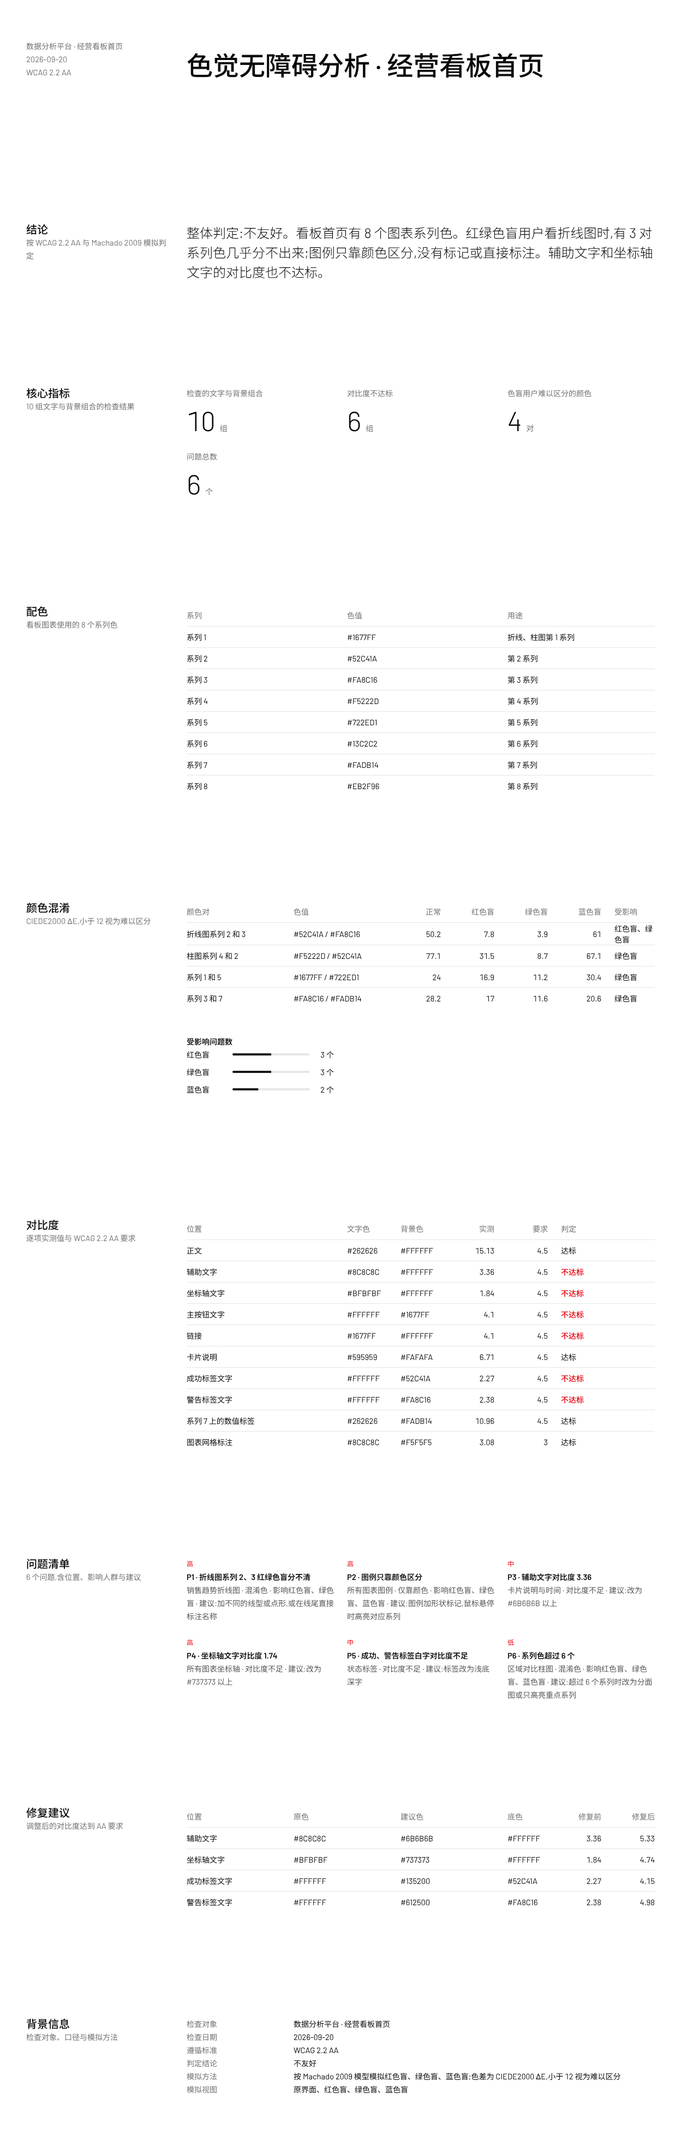
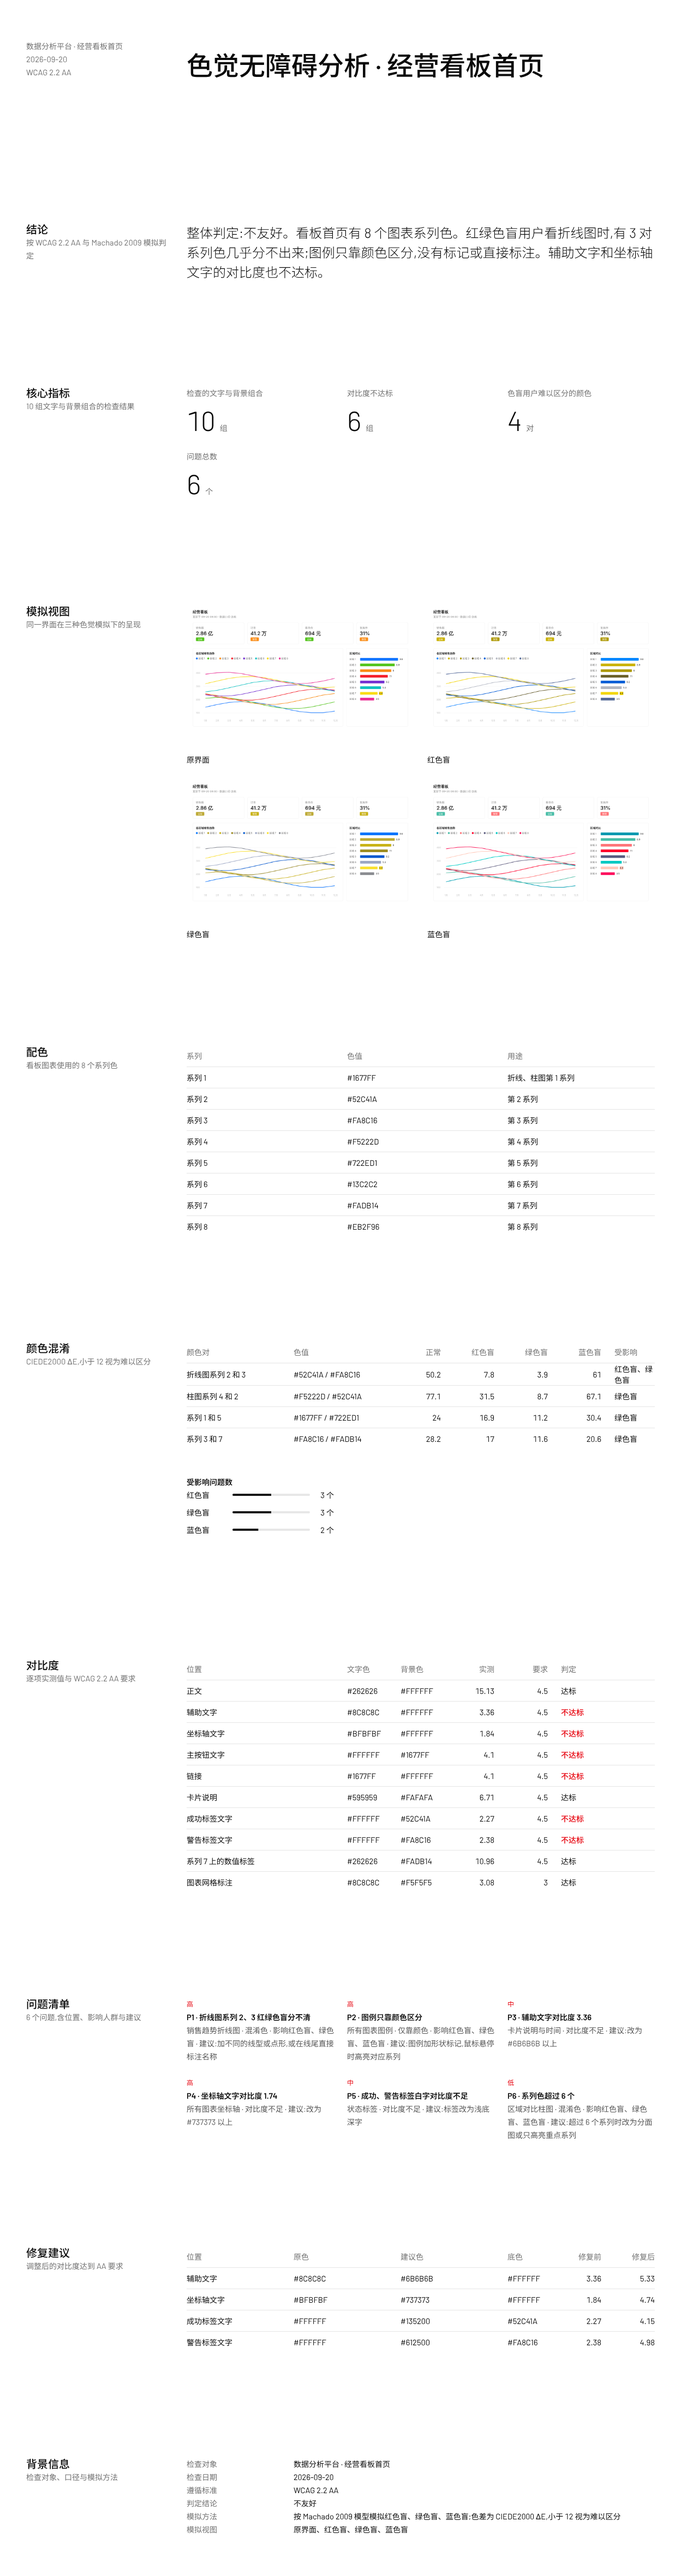
ui-loop: 基线生成中的轨迹
Claude-Session: https://claude.ai/code/session_01B6BvnZawy2aUhBeLpK9EKL

diff --git a/experiments/ui-loop/traces/cvd-g0/c3/Page.tsx b/experiments/ui-loop/traces/cvd-g0/c3/Page.tsx
@@ -1,3 +1,5 @@
+import * as React from "react"
+
 import data from "./data.json"
 import {
   Page,
@@ -12,6 +14,24 @@ import {
   List,
   KV,
 } from "@/components/report"
+
+// The library has no image component; the four screenshots are the evidence of
+// this report, so they are rendered as plain images resolved by the bundler.
+const SCREEN_SRC: Record<string, string> = {
+  "assets/original.png": new URL("./assets/original.png", import.meta.url).href,
+  "assets/protanopia.png": new URL("./assets/protanopia.png", import.meta.url).href,
+  "assets/deuteranopia.png": new URL("./assets/deuteranopia.png", import.meta.url).href,
+  "assets/tritanopia.png": new URL("./assets/tritanopia.png", import.meta.url).href,
+}
+
+function Screen({ view, image }: { view: string; image: string }) {
+  const src = SCREEN_SRC[image] ?? new URL("./assets/original.png", import.meta.url).href
+  return (
+    <Block span={4} title={view}>
+      {React.createElement("img", { src, alt: view, className: "w-full h-auto" })}
+    </Block>
+  )
+}
 
 export default function Report() {
   const kpi = (key: string) => data.kpis.find((k) => k.key === key)!
@@ -89,7 +109,7 @@ export default function Report() {
   }))
 
   return (
-    <Page title={data.title} meta={[data.target, data.date]}>
+    <Page title={data.title} meta={[data.target, `${data.date} · ${data.standard}`]}>
       <Section title="结论" description={`判定:${data.verdict} · 标准 ${data.standard}`}>
         <Text className="text-2xl leading-9 font-light">{`${data.verdict}:${data.summary}`}</Text>
       </Section>
@@ -100,6 +120,14 @@ export default function Report() {
           <Stat span={3} value={kpi("fail").value} unit={kpi("fail").unit} captionBelow label={kpi("fail").label} />
           <Stat span={3} value={kpi("confuse").value} unit={kpi("confuse").unit} captionBelow label={kpi("confuse").label} />
           <Stat span={3} value={kpi("pairs").value} unit={kpi("pairs").unit} captionBelow label={kpi("pairs").label} />
+        </Grid>
+      </Section>
+
+      <Section title="模拟视图" description="原界面与三种色觉模拟下的同一屏">
+        <Grid cols={9} fields={false}>
+          {data.screens.map((s) => (
+            <Screen key={s.view} view={s.view} image={s.image} />
+          ))}
         </Grid>
       </Section>
 
@@ -124,13 +152,13 @@ export default function Report() {
           </Grid>
         </Group>
 
-        <Group title="文字与背景对比度 / 路况配色">
+        <Group title="路况配色与文字对比度">
           <Grid cols={9}>
-            <Block span={3} rows={2} title="对比度(要求 4.5)">
-              <ProgressList compact items={contrastItems} />
-            </Block>
-            <Block span={6} rows={2} title="路况配色">
+            <Block span={3} rows={2} title="路况配色">
               <List items={paletteItems} />
+            </Block>
+            <Block span={6} rows={2} title="对比度(要求 4.5)">
+              <ProgressList compact items={contrastItems} />
             </Block>
           </Grid>
         </Group>
@@ -144,8 +172,13 @@ export default function Report() {
         </Group>
       </Section>
 
-      <Section title="明细" description="每个问题的位置、严重度与影响人群">
-        <DataTable columns={issueColumns} rows={issueRows} />
+      <Section title="明细" description="文字对比度与每个问题的位置、严重度">
+        <Group title="文字与背景对比度">
+          <DataTable columns={contrastColumns} rows={contrastRows} />
+        </Group>
+        <Group title="问题清单">
+          <DataTable columns={issueColumns} rows={issueRows} />
+        </Group>
       </Section>
 
       <Section title="下一步" description="针对四个问题的修复建议">

diff --git a/experiments/ui-loop/traces/flow-g0/f2/Page.tsx b/experiments/ui-loop/traces/flow-g0/f2/Page.tsx
@@ -12,8 +12,21 @@ import {
   KV,
 } from "@/components/report"
 
-// 组件库没有图片组件,链路截图用原生 img 元素渲染,宽度随栏宽缩放。
+// 组件库没有图片组件:链路截图用原生 img 元素渲染,宽度随栏宽缩放。
+// 截图的路径交给构建器解析成可加载的资源。
 const Img: any = "img"
+const SHOTS: Record<string, string> = {
+  "assets/p1-01.png": new URL("./assets/p1-01.png", import.meta.url).href,
+  "assets/p1-02.png": new URL("./assets/p1-02.png", import.meta.url).href,
+  "assets/p1-03.png": new URL("./assets/p1-03.png", import.meta.url).href,
+  "assets/p1-04.png": new URL("./assets/p1-04.png", import.meta.url).href,
+  "assets/p1-05.png": new URL("./assets/p1-05.png", import.meta.url).href,
+  "assets/p2-01.png": new URL("./assets/p2-01.png", import.meta.url).href,
+  "assets/p2-02.png": new URL("./assets/p2-02.png", import.meta.url).href,
+  "assets/p2-03.png": new URL("./assets/p2-03.png", import.meta.url).href,
+  "assets/p2-04.png": new URL("./assets/p2-04.png", import.meta.url).href,
+}
+const shot = (file: string) => SHOTS[file] ?? file
 
 const chainColumns = [
   { key: "no", label: "步骤", span: 1 },
@@ -92,7 +105,7 @@ export default function Report() {
                   description={step.action}
                 >
                   <Img
-                    src={step.image}
+                    src={shot(step.image)}
                     alt={`${chain.product} ${step.screen}`}
                     className="block w-full"
                   />

diff --git a/experiments/ui-loop/traces/cvd-g0/c1/Page.tsx b/experiments/ui-loop/traces/cvd-g0/c1/Page.tsx
@@ -1,3 +1,5 @@
+import * as React from "react"
+
 import data from "./data.json"
 import {
   Page,
@@ -11,6 +13,20 @@ import {
   List,
   KV,
 } from "@/components/report"
+
+// The screenshots live in the workspace; Vite rewrites the glob to built asset URLs.
+const shots = import.meta.glob("./assets/*.png", {
+  eager: true,
+  query: "?url",
+  import: "default",
+}) as Record<string, string>
+
+const shot = (file: string) => shots[`./${file}`] ?? file
+
+// No image component exists in the report library, so the screenshot element is
+// built here instead of written as a raw HTML tag.
+const Screenshot = ({ src, alt }: { src: string; alt: string }) =>
+  React.createElement("img", { src, alt, className: "w-full" })
 
 export default function Report() {
   const d = data as any
@@ -64,6 +80,17 @@ export default function Report() {
               unit={k.unit}
               label={k.label}
             />
+          ))}
+        </Grid>
+      </Section>
+
+      <Section title="模拟视图" description="同一界面在三种色觉模拟下的呈现">
+        <Grid cols={2} fields={false}>
+          {screens.map((s) => (
+            <div key={s.view} className="flex flex-col gap-2">
+              <Screenshot src={shot(s.image)} alt={s.view} />
+              <Text>{s.view}</Text>
+            </div>
           ))}
         </Grid>
       </Section>

diff --git a/experiments/ui-loop/traces/flow-g0/f6/Page.tsx b/experiments/ui-loop/traces/flow-g0/f6/Page.tsx
@@ -108,7 +108,7 @@ export default function Report() {
         ))}
       </Section>
 
-      <Section title="问题明细" description="7 个问题的位置、严重程度与证据">
+      <Section title="问题明细" description={`${data.issues.length} 个问题的位置、严重程度与证据`}>
         <DataTable
           columns={[
             { key: "id", label: "编号", span: 1 },
